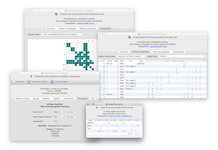
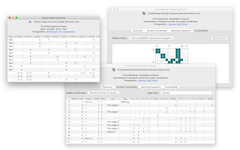
Modern screenshots.

diff --git a/index.html b/index.html
@@ -104,21 +104,30 @@ Click on each thumbnail below for a full-sized version of the screenshot.
 <table border=0>
 <tr>
     <td align=center><a href="shots/tri.png">
-        <img srcset="shots/tri-mini.png 1x, shots/tri-mini@2x.png 2x" src="shots/tri-mini.png"
+        <img srcset="shots/tri-mini.png 1x, shots/tri-mini@2x.png 2x, shots/tri-mini@3x.png 3x" src="shots/tri-mini.png"
         hspace=5 align=middle border=0
         alt="Screenshot thumbnail"></a></td>
     <td align=center><a href="shots/surfaces.png">
-        <img srcset="shots/surfaces-mini.png 1x, shots/surfaces-mini@2x.png 2x" src="shots/surfaces-mini.png"
-        hspace=5 align=middle border=0
-        alt="Screenshot thumbnail"></a></td>
-    <td align=center><a href="shots/scripting.png">
-        <img srcset="shots/scripting-mini.png 1x, shots/scripting-mini@2x.png 2x" src="shots/scripting-mini.png"
+        <img srcset="shots/surfaces-mini.png 1x, shots/surfaces-mini@2x.png 2x, shots/surfaces-mini@3x.png 3x" src="shots/surfaces-mini.png"
         hspace=5 align=middle border=0
         alt="Screenshot thumbnail"></a></td>
 </tr>
 <tr>
     <td align="center">Studying 3-manifold<br>triangulations</td>
     <td align="center">Normal surfaces and<br>angle structures</td>
+</tr>
+<tr>
+    <td align=center><a href="shots/links.png">
+        <img srcset="shots/links-mini.png 1x, shots/links-mini@2x.png 2x, shots/links-mini@3x.png 3x" src="shots/links-mini.png"
+        hspace=5 align=middle border=0
+        alt="Screenshot thumbnail"></a></td>
+    <td align=center><a href="shots/python.png">
+        <img srcset="shots/python-mini.png 1x, shots/python-mini@2x.png 2x, shots/python-mini@3x.png 3x" src="shots/python-mini.png"
+        hspace=5 align=middle border=0
+        alt="Screenshot thumbnail"></a></td>
+</tr>
+<tr>
+    <td align="center">Knots and<br>links</td>
     <td align="center">In-built Python<br>scripting</td>
 </tr>
 </table>
